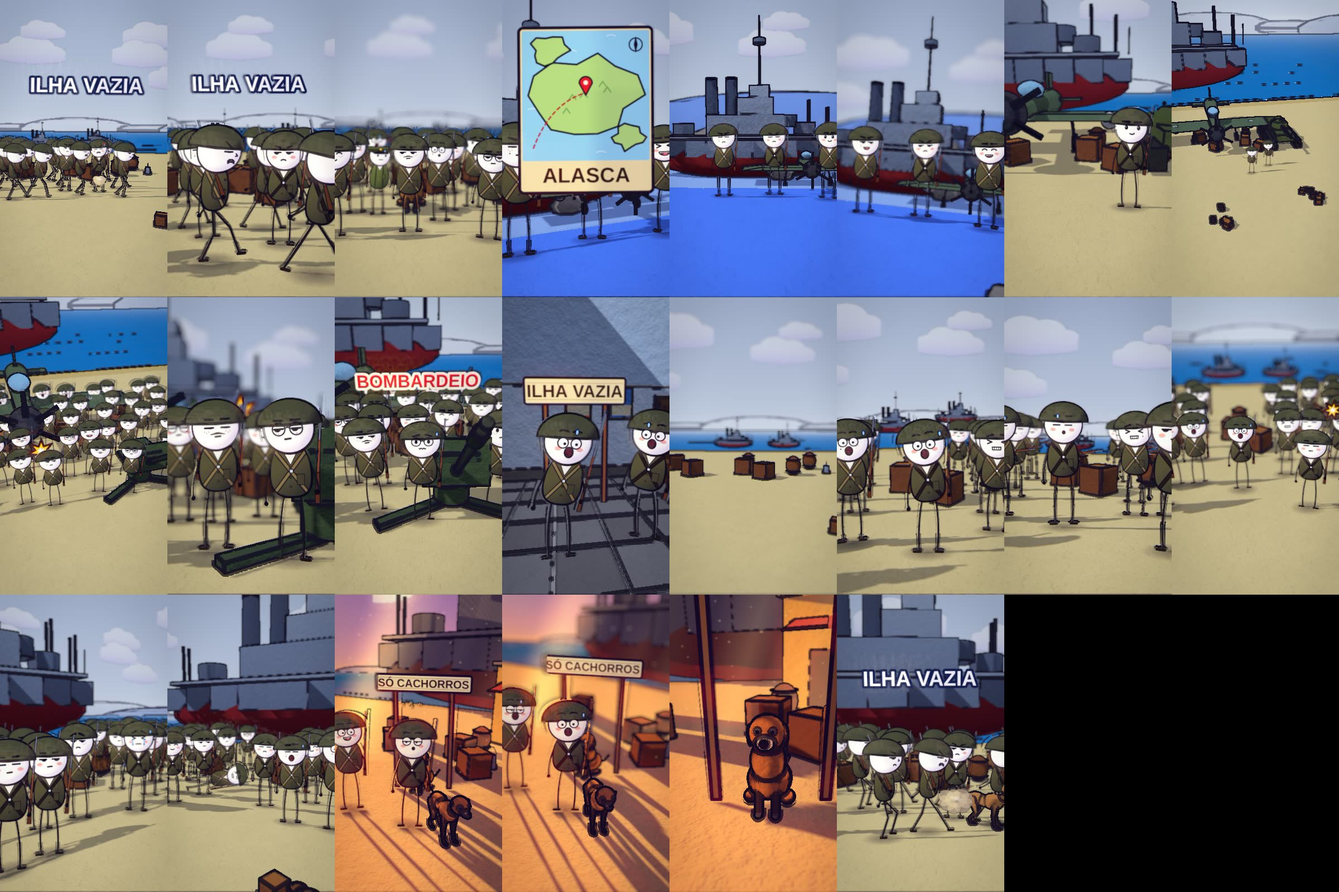
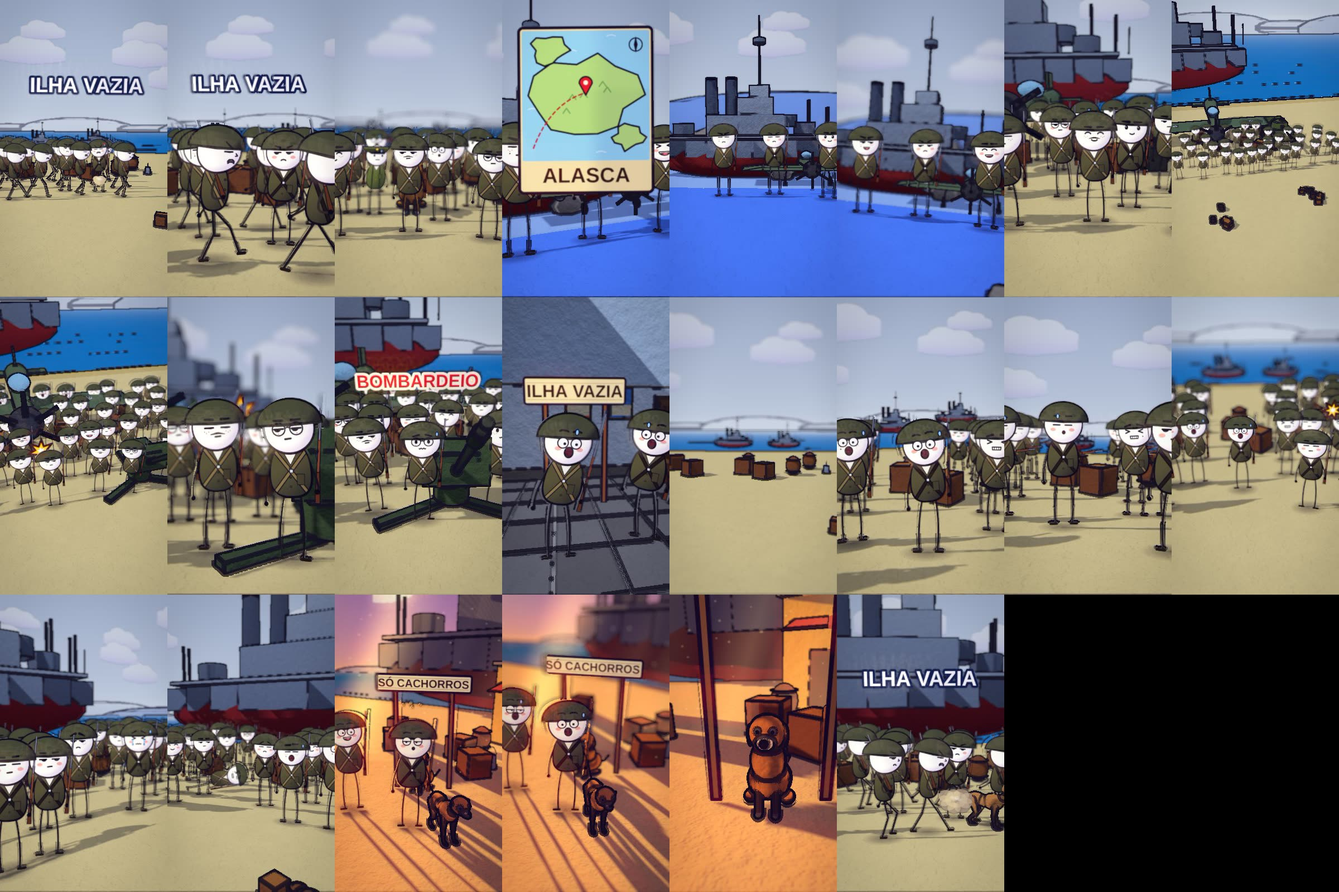
progresso da fila
Claude-Session: https://claude.ai/code/session_01HE8Dy3UcXXZZMLa7uzjNJD

Changed region(s): [[0.75, 0.0919, 1.0, 0.2758], [0.25, 0.1532, 0.3438, 0.2452]]

diff --git a/ferramenta-shorts/web/story.js b/ferramenta-shorts/web/story.js
@@ -34,9 +34,9 @@ const SPEC = {
   kicks: [{ f: WS(63), a: 0.032 }], flashes: [],
   shots: [
     { ...S('b0', A[0], A[1] - 1, X_harbor, "overcast", { h: 2.4, d0: 20, d1: 16, el: 5, fov: 46, cx: 0.0, cz: -1.5, hero: { hero: 'none', wide: true }, vary: false, nocut: true, actors: [_MA(pp(X_harbor, "USA", 0, -1.0, -0.4, "stern"), { gests: [[WS(5) - 8, WS(5) + 46, 'point']] }), pp(X_harbor, "CAN", 0, 1.0, 0.2, "stern"), { outfit: "USA", v: 0, at: [X_harbor + -17.05, 0.84], move: [[X_harbor + -5.05, 0.84], A[0], A[1] - 1, 'lin'], pose: 'march', speed: 0.034, expr: "stern", seed: 0, look: -0.25 }, { outfit: "CAN", v: 1, at: [X_harbor + -14.79, 1.32], move: [[X_harbor + -2.79, 1.32], A[0], A[1] - 1, 'lin'], pose: 'march', speed: 0.034, expr: "stern", seed: 1, look: 0.25 }, { outfit: "USA", v: 2, at: [X_harbor + -12.53, 0.96], move: [[X_harbor + -0.53, 0.96], A[0], A[1] - 1, 'lin'], pose: 'march', speed: 0.034, expr: "stern", seed: 2, look: 0.0 }, { outfit: "CAN", v: 3, at: [X_harbor + -11.26, 1.44], move: [[X_harbor + 0.74, 1.44], A[0], A[1] - 1, 'lin'], pose: 'march', speed: 0.034, expr: "stern", seed: 3, look: 0.15 }, { outfit: "USA", v: 0, at: [X_harbor + -9.0, 1.08], move: [[X_harbor + 3.0, 1.08], A[0], A[1] - 1, 'lin'], pose: 'march', speed: 0.034, expr: "stern", seed: 0, look: -0.25 }, { outfit: "CAN", v: 1, at: [X_harbor + -6.74, 1.56], move: [[X_harbor + 5.26, 1.56], A[0], A[1] - 1, 'lin'], pose: 'march', speed: 0.034, expr: "stern", seed: 1, look: 0.25 }, { outfit: "USA", v: 2, at: [X_harbor + -5.47, 1.2], move: [[X_harbor + 6.53, 1.2], A[0], A[1] - 1, 'lin'], pose: 'march', speed: 0.034, expr: "stern", seed: 2, look: 0.0 }, { outfit: "CAN", v: 3, at: [X_harbor + -3.21, 0.84], move: [[X_harbor + 8.79, 0.84], A[0], A[1] - 1, 'lin'], pose: 'march', speed: 0.034, expr: "stern", seed: 3, look: 0.15 }, { outfit: "USA", v: 0, at: [X_harbor + -0.95, 1.32], move: [[X_harbor + 11.05, 1.32], A[0], A[1] - 1, 'lin'], pose: 'march', speed: 0.034, expr: "stern", seed: 0, look: -0.25 }, { outfit: "CAN", v: 1, at: [X_harbor + -15.88, -1.14], move: [[X_harbor + -3.88, -1.14], A[0], A[1] - 1, 'lin'], pose: 'march', speed: 0.034, expr: "stern", seed: 1, look: 0.25 }, { outfit: "USA", v: 2, at: [X_harbor + -13.62, -0.66], move: [[X_harbor + -1.62, -0.66], A[0], A[1] - 1, 'lin'], pose: 'march', speed: 0.034, expr: "stern", seed: 2, look: 0.0 }, { outfit: "CAN", v: 3, at: [X_harbor + -12.35, -1.02], move: [[X_harbor + -0.35, -1.02], A[0], A[1] - 1, 'lin'], pose: 'march', speed: 0.034, expr: "stern", seed: 3, look: 0.15 }, { outfit: "USA", v: 0, at: [X_harbor + -10.09, -0.54], move: [[X_harbor + 1.91, -0.54], A[0], A[1] - 1, 'lin'], pose: 'march', speed: 0.034, expr: "stern", seed: 0, look: -0.25 }, { outfit: "CAN", v: 1, at: [X_harbor + -7.83, -0.9], move: [[X_harbor + 4.17, -0.9], A[0], A[1] - 1, 'lin'], pose: 'march', speed: 0.034, expr: "stern", seed: 1, look: 0.25 }, { outfit: "USA", v: 2, at: [X_harbor + -6.56, -1.26], move: [[X_harbor + 5.44, -1.26], A[0], A[1] - 1, 'lin'], pose: 'march', speed: 0.034, expr: "stern", seed: 2, look: 0.0 }, { outfit: "CAN", v: 3, at: [X_harbor + -4.3, -0.78], move: [[X_harbor + 7.7, -0.78], A[0], A[1] - 1, 'lin'], pose: 'march', speed: 0.034, expr: "stern", seed: 3, look: 0.15 }, { outfit: "USA", v: 0, at: [X_harbor + -2.04, -1.14], move: [[X_harbor + 9.96, -1.14], A[0], A[1] - 1, 'lin'], pose: 'march', speed: 0.034, expr: "stern", seed: 0, look: -0.25 }, { outfit: "CAN", v: 1, at: [X_harbor + -0.77, -0.66], move: [[X_harbor + 11.23, -0.66], A[0], A[1] - 1, 'lin'], pose: 'march', speed: 0.034, expr: "stern", seed: 1, look: 0.25 }, { outfit: "USA", v: 2, at: [X_harbor + -16.51, -3.12], move: [[X_harbor + -4.51, -3.12], A[0], A[1] - 1, 'lin'], pose: 'march', speed: 0.034, expr: "stern", seed: 2, look: 0.0 }, { outfit: "CAN", v: 3, at: [X_harbor + -14.25, -2.64], move: [[X_harbor + -2.25, -2.64], A[0], A[1] - 1, 'lin'], pose: 'march', speed: 0.034, expr: "stern", seed: 3, look: 0.15 }, { outfit: "USA", v: 0, at: [X_harbor + -12.98, -3.0], move: [[X_harbor + -0.98, -3.0], A[0], A[1] - 1, 'lin'], pose: 'march', speed: 0.034, expr: "stern", seed: 0, look: -0.25 }, { outfit: "CAN", v: 1, at: [X_harbor + -10.72, -3.36], move: [[X_harbor + 1.28, -3.36], A[0], A[1] - 1, 'lin'], pose: 'march', speed: 0.034, expr: "stern", seed: 1, look: 0.25 }, { outfit: "USA", v: 2, at: [X_harbor + -9.45, -2.88], move: [[X_harbor + 2.55, -2.88], A[0], A[1] - 1, 'lin'], pose: 'march', speed: 0.034, expr: "stern", seed: 2, look: 0.0 }, { outfit: "CAN", v: 3, at: [X_harbor + -7.19, -3.24], move: [[X_harbor + 4.81, -3.24], A[0], A[1] - 1, 'lin'], pose: 'march', speed: 0.034, expr: "stern", seed: 3, look: 0.15 }, { outfit: "USA", v: 0, at: [X_harbor + -4.93, -2.76], move: [[X_harbor + 7.07, -2.76], A[0], A[1] - 1, 'lin'], pose: 'march', speed: 0.034, expr: "stern", seed: 0, look: -0.25 }, { outfit: "CAN", v: 1, at: [X_harbor + -3.66, -3.12], move: [[X_harbor + 8.34, -3.12], A[0], A[1] - 1, 'lin'], pose: 'march', speed: 0.034, expr: "stern", seed: 1, look: 0.25 }, { outfit: "USA", v: 2, at: [X_harbor + -1.4, -2.64], move: [[X_harbor + 10.6, -2.64], A[0], A[1] - 1, 'lin'], pose: 'march', speed: 0.034, expr: "stern", seed: 2, look: 0.0 }, { outfit: "CAN", v: 3, at: [X_harbor + -15.34, -5.1], move: [[X_harbor + -3.34, -5.1], A[0], A[1] - 1, 'lin'], pose: 'march', speed: 0.034, expr: "stern", seed: 3, look: 0.15 }, { outfit: "USA", v: 0, at: [X_harbor + -14.07, -5.46], move: [[X_harbor + -2.07, -5.46], A[0], A[1] - 1, 'lin'], pose: 'march', speed: 0.034, expr: "stern", seed: 0, look: -0.25 }, { outfit: "CAN", v: 1, at: [X_harbor + -11.81, -4.98], move: [[X_harbor + 0.19, -4.98], A[0], A[1] - 1, 'lin'], pose: 'march', speed: 0.034, expr: "stern", seed: 1, look: 0.25 }, { outfit: "USA", v: 2, at: [X_harbor + -9.55, -5.34], move: [[X_harbor + 2.45, -5.34], A[0], A[1] - 1, 'lin'], pose: 'march', speed: 0.034, expr: "stern", seed: 2, look: 0.0 }, { outfit: "CAN", v: 3, at: [X_harbor + -8.28, -4.86], move: [[X_harbor + 3.72, -4.86], A[0], A[1] - 1, 'lin'], pose: 'march', speed: 0.034, expr: "stern", seed: 3, look: 0.15 }], props: [{ asset: "ship", at: [X_harbor + -5, -27.0], s: 1.3 }, { asset: "ship", at: [X_harbor + 4, -27.0], s: 1.3 }, { asset: 'ship', at: [X_harbor + -34, -9], move: [[X_harbor + -7, -9], A[0], WS(5) + 30, 'lin'], s: 1.3, drop: false }, { asset: 'ship', at: [X_harbor + -46, -12], move: [[X_harbor + -16, -12], A[0], WS(5) + 30, 'lin'], s: 1.3, drop: false }], fx: [txt(X_harbor, WS(2, -2), A[1] - 1, "ILHA VAZIA", '#ffffff', '#1c2a4a', 4.6, { s: 1.5, up: 0.42 }), { k: "dust", a: A[0] + 25, b: A[0] + 51, at: [X_harbor + 0.9, DK + 0.12, 1.0], s: 0.75 }] }), nocut: true },
-    { ...S('b1', A[1], A[2] - 1, X_harbor, "overcast", { h: 2.4, d0: 12.1, d1: 11.5, el: 6, cx: 0.0, cz: -0.6, hero: { hero: 'none', wide: true }, vary: false, nocut: true, trans: 'cut', glide: true, glideN: 26, actors: [pp(X_harbor, "OFF", 0, -1.0, -0.4, "pained"), pp(X_harbor, "USA", 0, 1.0, 0.2, "surprised"), pp(X_harbor, "USA", 0, -8.05, 0.84, "neutral", { look: -0.25, seed: 0 }), pp(X_harbor, "USA", 1, -5.79, 1.32, "neutral", { look: 0.25, seed: 1 }), pp(X_harbor, "USA", 2, -3.53, 0.96, "neutral", { look: 0.0, seed: 2 }), pp(X_harbor, "USA", 3, -2.26, 1.44, "neutral", { look: 0.15, seed: 3 }), pp(X_harbor, "USA", 4, 0.0, 1.08, "neutral", { look: -0.25, seed: 0 }), pp(X_harbor, "USA", 5, 2.26, 1.56, "neutral", { look: 0.25, seed: 1 }), pp(X_harbor, "USA", 6, 3.53, 1.2, "neutral", { look: 0.0, seed: 2 }), pp(X_harbor, "USA", 0, 5.79, 0.84, "neutral", { look: 0.15, seed: 3 }), pp(X_harbor, "USA", 1, 8.05, 1.32, "neutral", { look: -0.25, seed: 0 }), pp(X_harbor, "USA", 2, -6.88, -1.14, "neutral", { look: 0.25, seed: 1 }), pp(X_harbor, "USA", 3, -4.62, -0.66, "neutral", { look: 0.0, seed: 2 }), pp(X_harbor, "USA", 4, -3.35, -1.02, "neutral", { look: 0.15, seed: 3 }), pp(X_harbor, "USA", 5, -1.09, -0.54, "neutral", { look: -0.25, seed: 0 }), pp(X_harbor, "USA", 6, 1.17, -0.9, "neutral", { look: 0.25, seed: 1 }), pp(X_harbor, "USA", 0, 2.44, -1.26, "neutral", { look: 0.0, seed: 2 }), pp(X_harbor, "USA", 1, 4.7, -0.78, "neutral", { look: 0.15, seed: 3 }), pp(X_harbor, "USA", 2, 6.96, -1.14, "neutral", { look: -0.25, seed: 0 }), pp(X_harbor, "USA", 3, 8.23, -0.66, "neutral", { look: 0.25, seed: 1 }), pp(X_harbor, "USA", 4, -7.51, -3.12, "neutral", { look: 0.0, seed: 2 }), pp(X_harbor, "USA", 5, -5.25, -2.64, "neutral", { look: 0.15, seed: 3 }), pp(X_harbor, "USA", 6, -3.98, -3.0, "neutral", { look: -0.25, seed: 0 }), pp(X_harbor, "USA", 0, -1.72, -3.36, "neutral", { look: 0.25, seed: 1 }), pp(X_harbor, "USA", 1, -0.45, -2.88, "neutral", { look: 0.0, seed: 2 }), pp(X_harbor, "USA", 2, 1.81, -3.24, "neutral", { look: 0.15, seed: 3 }), pp(X_harbor, "USA", 3, 4.07, -2.76, "neutral", { look: -0.25, seed: 0 }), pp(X_harbor, "USA", 4, 5.34, -3.12, "neutral", { look: 0.25, seed: 1 }), pp(X_harbor, "USA", 5, 7.6, -2.64, "neutral", { look: 0.0, seed: 2 }), pp(X_harbor, "USA", 6, -6.34, -5.1, "neutral", { look: 0.15, seed: 3 }), pp(X_harbor, "USA", 0, -5.07, -5.46, "neutral", { look: -0.25, seed: 0 }), pp(X_harbor, "USA", 1, -2.81, -4.98, "neutral", { look: 0.25, seed: 1 }), pp(X_harbor, "USA", 2, -0.55, -5.34, "neutral", { look: 0.0, seed: 2 }), pp(X_harbor, "USA", 3, 0.72, -4.86, "neutral", { look: 0.15, seed: 3 })], props: [{ asset: "kit/dog_sit", at: [X_harbor + 0.0, -1.2], s: 2.0, fixo: true, drop: false }, { asset: "kit/dog_sit", at: [X_harbor + 3.6, -2.0], s: 1.2, fixo: true, drop: false }, { asset: "ship", at: [X_harbor + -5, -27.0], s: 1.3 }, { asset: "ship", at: [X_harbor + 4, -27.0], s: 1.3 }], fx: [txt(X_harbor, WS(22, -2), A[2] - 1, "OPERAÇÃO ILHA VAZIA", '#ffffff', '#1c2a4a', 4.6, { s: 1.5, up: 0.42 }), { k: "puff", a: WS(15), b: WS(15) + 28, at: [X_harbor + -3.08, DK + 0.12, -2.8], s: 1.3 }] }), nocut: true },
+    { ...S('b1', A[1], A[2] - 1, X_harbor, "overcast", { h: 2.4, d0: 12.1, d1: 11.5, el: 6, cx: 0.0, cz: -0.6, hero: { hero: 'none', wide: true }, vary: false, nocut: true, trans: 'cut', glide: true, glideN: 26, actors: [pp(X_harbor, "OFF", 0, -1.0, -0.4, "pained"), pp(X_harbor, "USA", 0, 1.0, 0.2, "surprised"), pp(X_harbor, "USA", 0, -8.05, 0.84, "neutral", { look: -0.25, seed: 0 }), pp(X_harbor, "USA", 1, -5.79, 1.32, "neutral", { look: 0.25, seed: 1 }), pp(X_harbor, "USA", 2, -3.53, 0.96, "neutral", { look: 0.0, seed: 2 }), pp(X_harbor, "USA", 3, -2.26, 1.44, "neutral", { look: 0.15, seed: 3 }), pp(X_harbor, "USA", 4, 0.0, 1.08, "neutral", { look: -0.25, seed: 0 }), pp(X_harbor, "USA", 5, 2.26, 1.56, "neutral", { look: 0.25, seed: 1 }), pp(X_harbor, "USA", 6, 3.53, 1.2, "neutral", { look: 0.0, seed: 2 }), pp(X_harbor, "USA", 0, 5.79, 0.84, "neutral", { look: 0.15, seed: 3 }), pp(X_harbor, "USA", 1, 8.05, 1.32, "neutral", { look: -0.25, seed: 0 }), pp(X_harbor, "USA", 2, -6.88, -1.14, "neutral", { look: 0.25, seed: 1 }), pp(X_harbor, "USA", 3, -4.62, -0.66, "neutral", { look: 0.0, seed: 2 }), pp(X_harbor, "USA", 4, -3.35, -1.02, "neutral", { look: 0.15, seed: 3 }), pp(X_harbor, "USA", 5, -1.09, -0.54, "neutral", { look: -0.25, seed: 0 }), pp(X_harbor, "USA", 6, 1.17, -0.9, "neutral", { look: 0.25, seed: 1 }), pp(X_harbor, "USA", 0, 2.44, -1.26, "neutral", { look: 0.0, seed: 2 }), pp(X_harbor, "USA", 1, 4.7, -0.78, "neutral", { look: 0.15, seed: 3 }), pp(X_harbor, "USA", 2, 6.96, -1.14, "neutral", { look: -0.25, seed: 0 }), pp(X_harbor, "USA", 3, 8.23, -0.66, "neutral", { look: 0.25, seed: 1 }), pp(X_harbor, "USA", 4, -7.51, -3.12, "neutral", { look: 0.0, seed: 2 }), pp(X_harbor, "USA", 5, -5.25, -2.64, "neutral", { look: 0.15, seed: 3 }), pp(X_harbor, "USA", 6, -3.98, -3.0, "neutral", { look: -0.25, seed: 0 }), pp(X_harbor, "USA", 0, -1.72, -3.36, "neutral", { look: 0.25, seed: 1 }), pp(X_harbor, "USA", 1, -0.45, -2.88, "neutral", { look: 0.0, seed: 2 }), pp(X_harbor, "USA", 2, 1.81, -3.24, "neutral", { look: 0.15, seed: 3 }), pp(X_harbor, "USA", 3, 4.07, -2.76, "neutral", { look: -0.25, seed: 0 }), pp(X_harbor, "USA", 4, 5.34, -3.12, "neutral", { look: 0.25, seed: 1 }), pp(X_harbor, "USA", 5, 7.6, -2.64, "neutral", { look: 0.0, seed: 2 }), pp(X_harbor, "USA", 6, -6.34, -5.1, "neutral", { look: 0.15, seed: 3 }), pp(X_harbor, "USA", 0, -5.07, -5.46, "neutral", { look: -0.25, seed: 0 }), pp(X_harbor, "USA", 1, -2.81, -4.98, "neutral", { look: 0.25, seed: 1 }), pp(X_harbor, "USA", 2, -0.55, -5.34, "neutral", { look: 0.0, seed: 2 }), pp(X_harbor, "USA", 3, 0.72, -4.86, "neutral", { look: 0.15, seed: 3 })], props: [{ asset: "kit/dog_sit", at: [X_harbor + 0.0, -1.0], s: 2.0, fixo: true, drop: false }, { asset: "kit/dog_sit", at: [X_harbor + 3.6, -2.0], s: 1.2, fixo: true, drop: false }, { asset: "ship", at: [X_harbor + -5, -27.0], s: 1.3 }, { asset: "ship", at: [X_harbor + 4, -27.0], s: 1.3 }], fx: [txt(X_harbor, WS(22, -2), A[2] - 1, "OPERAÇÃO ILHA VAZIA", '#ffffff', '#1c2a4a', 4.6, { s: 1.5, up: 0.42 }), { k: "puff", a: WS(15), b: WS(15) + 28, at: [X_harbor + -3.08, DK + 0.12, -2.8], s: 1.3 }] }), nocut: true },
     S('b2', A[2], Math.round(A[2] + (A[3] - 1 + 1 - (A[2])) * 0.36) - 1, X_arctic, "overcast", { h: 2.5, d0: 12.882, d1: 11.526, az0: -6, az1: 8, cx: 0.0, cz: 1.2, hero: { hero: 'any', frame: 'medium', minH: 0.07, main: 3 }, trans: 'cut', nocut: true, actors: [pp(X_arctic, "USA", 0, -2.1, 1.3, "stern", { pose: 'talk', inter: { k: 'lean', a: Math.round(A[2] + (A[3] - 1 - (A[2])) * 0.12), b: Math.round(A[2] + (A[3] - 1 - (A[2])) * 0.82), dir: 1, n: 2, ph: 0 } }), pp(X_arctic, "CAN", 0, 0.0, 1.0, "stern", { pose: 'talk', inter: { k: 'nod', a: Math.round(A[2] + (A[3] - 1 - (A[2])) * 0.2), b: Math.round(A[2] + (A[3] - 1 - (A[2])) * 0.9), dir: -1, n: 2, ph: 3.14 } }), pp(X_arctic, "USA", 1, 2.1, 1.6, "grin", { pose: 'talk' })], props: [{ asset: "vehicles/airplane", at: [X_arctic + 1.6, -1.6], s: 1.0 }, { asset: "kit/navio_vapor", at: [X_arctic + -1.8, -3.0], s: 2.25, drop: false }], fx: [{ k: 'map', a: WS(18, -2), b: Math.min(A[3] - 1, WS(18, -2) + 54), text: "ALASCA", geo: null }] }), { ...S('b2_d', Math.round(A[2] + (A[3] - 1 + 1 - (A[2])) * 0.36), Math.round(A[2] + (A[3] - 1 + 1 - (A[2])) * 0.6) - 1, X_arctic, "overcast", { h: 2.5, d0: 12.882, d1: 11.526, az0: -6, az1: 8, cx: 0.0, cz: 1.2, hero: { hero: 'none', detalhe: true }, trans: 'cut', nocut: true, actors: [pp(X_arctic, "USA", 0, -2.1, 1.3, "stern", { pose: 'stand' }), pp(X_arctic, "CAN", 0, 0.0, 1.0, "stern", { pose: 'stand' }), pp(X_arctic, "USA", 1, 2.1, 1.6, "grin", { pose: 'stand' })], props: [{ asset: "vehicles/airplane", at: [X_arctic + 1.6, -1.6], s: 1.0, drop: false }, { asset: "kit/navio_vapor", at: [X_arctic + -1.8, -3.0], s: 2.25, drop: false }], fx: [{ k: 'map', a: WS(18, -2), b: Math.min(A[3] - 1, WS(18, -2) + 54), text: "ALASCA", geo: null }] }), cam: [{ f: Math.round(A[2] + (A[3] - 1 + 1 - (A[2])) * 0.36), at: [X_arctic + -1.8, DK + 0.75, -3.0], d: 44.45, az: 14, el: 7, fov: 44 }, { f: Math.round(A[2] + (A[3] - 1 + 1 - (A[2])) * 0.6) - 1, at: [X_arctic + -1.8, DK + 0.75, -3.0], d: 39.75, az: 8, el: 6, fov: 44 }], nocut: true, vary: false, glide: true, glideN: 34 }, { ...S('b2_v', Math.round(A[2] + (A[3] - 1 + 1 - (A[2])) * 0.6), A[3] - 1, X_arctic, "overcast", { h: 2.5, d0: 12.882, d1: 11.526, az0: -6, az1: 8, cx: 0.0, cz: 1.2, hero: { hero: 'any', frame: 'medium', minH: 0.07, main: 3 }, trans: 'cut', nocut: true, actors: [pp(X_arctic, "USA", 0, -2.1, 1.3, "stern", { pose: 'talk', inter: { k: 'lean', a: Math.round(A[2] + (A[3] - 1 - (A[2])) * 0.12), b: Math.round(A[2] + (A[3] - 1 - (A[2])) * 0.82), dir: 1, n: 2, ph: 0 } }), pp(X_arctic, "CAN", 0, 0.0, 1.0, "stern", { pose: 'talk', inter: { k: 'nod', a: Math.round(A[2] + (A[3] - 1 - (A[2])) * 0.2), b: Math.round(A[2] + (A[3] - 1 - (A[2])) * 0.9), dir: -1, n: 2, ph: 3.14 } }), pp(X_arctic, "USA", 1, 2.1, 1.6, "grin", { pose: 'talk' })], props: [{ asset: "vehicles/airplane", at: [X_arctic + 1.6, -1.6], s: 1.0, drop: false }, { asset: "kit/navio_vapor", at: [X_arctic + -1.8, -3.0], s: 2.25, drop: false }], fx: [{ k: 'map', a: WS(18, -2), b: Math.min(A[3] - 1, WS(18, -2) + 54), text: "ALASCA", geo: null }] }), glide: true, glideN: 34 },
-    { ...{ ...S('b3', A[3], A[4] - 1, X_harbor, "overcast", { h: 2.4, d0: 11.0, d1: 27.0, el: 10, fov: 46, cx: 0.0, cz: -1.5, hero: { hero: 'none', wide: true }, vary: false, nocut: true, trans: 'cut', actors: [_MA(_MA(pp(X_harbor, "USA", 0, -1.0, -0.4, "stern"), { gests: [[WS(33) - 8, WS(33) + 46, 'point']] }), { at: [X_harbor + 5.0, 0.5], move: [[X_harbor + -1.0, 1.3], Math.max(A[3], WS(33) - 30), WS(33) + 20, 'lin'], walk: 'stroll' }), pp(X_harbor, "CAN", 1, 1.0, 0.2, "smile")], props: [{ asset: "kit/aviao_ww2", at: [X_harbor + -4, -9], s: 2.51, drop: false }, { asset: "kit/tanque_ww2", at: [X_harbor + 4, -6], s: 1.0, drop: false }, { asset: "kit/navio_encouracado", at: [X_harbor + -15, -36], s: 8.44, drop: false }, { asset: "boat", at: [X_harbor + 30, -22], s: 1.0 }], fx: [{ k: "dust", a: WS(33), b: WS(33) + 28, at: [X_harbor + -0.1, DK + 0.12, 1.7], s: 1.3 }] }), nocut: true }, cam: [{ f: A[3], at: [X_harbor + 0.0, DK + 2.0, 0.5], d: 9, az: 10, el: 5, fov: 46 }, { f: A[4] - 1, at: [X_harbor + 0.0, DK + 1.0, -2.0], d: 30, az: -14, el: 30, fov: 48 }], nocut: true },
+    { ...{ ...S('b3', A[3], A[4] - 1, X_harbor, "overcast", { h: 2.8, d0: 13.0, d1: 11.0, el: 10, fov: 46, cx: 4.0, cz: -4.2, hero: { hero: 'none', wide: true }, vary: false, nocut: true, trans: 'cut', actors: [_MA(_MA(pp(X_harbor, "USA", 0, -1.0, -0.4, "stern"), { gests: [[WS(33) - 8, WS(33) + 46, 'point']] }), { at: [X_harbor + 5.0, 0.5], move: [[X_harbor + -1.0, 1.3], Math.max(A[3], WS(33) - 30), WS(33) + 20, 'lin'], walk: 'stroll' }), pp(X_harbor, "CAN", 1, 1.0, 0.2, "smile"), pp(X_harbor, "USA", 0, -8.05, 0.84, "neutral", { look: -0.25, seed: 0 }), pp(X_harbor, "USA", 1, -5.79, 1.32, "neutral", { look: 0.25, seed: 1 }), pp(X_harbor, "USA", 2, -3.53, 0.96, "neutral", { look: 0.0, seed: 2 }), pp(X_harbor, "USA", 3, -2.26, 1.44, "neutral", { look: 0.15, seed: 3 }), pp(X_harbor, "USA", 4, 0.0, 1.08, "neutral", { look: -0.25, seed: 0 }), pp(X_harbor, "USA", 5, 2.26, 1.56, "neutral", { look: 0.25, seed: 1 }), pp(X_harbor, "USA", 6, 3.53, 1.2, "neutral", { look: 0.0, seed: 2 }), pp(X_harbor, "USA", 0, 5.79, 0.84, "neutral", { look: 0.15, seed: 3 }), pp(X_harbor, "USA", 1, 8.05, 1.32, "neutral", { look: -0.25, seed: 0 }), pp(X_harbor, "USA", 2, -6.88, -1.14, "neutral", { look: 0.25, seed: 1 }), pp(X_harbor, "USA", 3, -4.62, -0.66, "neutral", { look: 0.0, seed: 2 }), pp(X_harbor, "USA", 4, -3.35, -1.02, "neutral", { look: 0.15, seed: 3 }), pp(X_harbor, "USA", 5, -1.09, -0.54, "neutral", { look: -0.25, seed: 0 }), pp(X_harbor, "USA", 6, 1.17, -0.9, "neutral", { look: 0.25, seed: 1 }), pp(X_harbor, "USA", 0, 2.44, -1.26, "neutral", { look: 0.0, seed: 2 }), pp(X_harbor, "USA", 1, 4.7, -0.78, "neutral", { look: 0.15, seed: 3 }), pp(X_harbor, "USA", 2, 6.96, -1.14, "neutral", { look: -0.25, seed: 0 }), pp(X_harbor, "USA", 3, 8.23, -0.66, "neutral", { look: 0.25, seed: 1 }), pp(X_harbor, "USA", 4, -7.51, -3.12, "neutral", { look: 0.0, seed: 2 }), pp(X_harbor, "USA", 5, -5.25, -2.64, "neutral", { look: 0.15, seed: 3 }), pp(X_harbor, "USA", 6, -3.98, -3.0, "neutral", { look: -0.25, seed: 0 }), pp(X_harbor, "USA", 0, -1.72, -3.36, "neutral", { look: 0.25, seed: 1 }), pp(X_harbor, "USA", 1, -0.45, -2.88, "neutral", { look: 0.0, seed: 2 }), pp(X_harbor, "USA", 2, 1.81, -3.24, "neutral", { look: 0.15, seed: 3 }), pp(X_harbor, "USA", 3, 4.07, -2.76, "neutral", { look: -0.25, seed: 0 }), pp(X_harbor, "USA", 4, 5.34, -3.12, "neutral", { look: 0.25, seed: 1 }), pp(X_harbor, "USA", 5, 7.6, -2.64, "neutral", { look: 0.0, seed: 2 }), pp(X_harbor, "USA", 6, -6.34, -5.1, "neutral", { look: 0.15, seed: 3 }), pp(X_harbor, "USA", 0, -5.07, -5.46, "neutral", { look: -0.25, seed: 0 }), pp(X_harbor, "USA", 1, -2.81, -4.98, "neutral", { look: 0.25, seed: 1 }), pp(X_harbor, "USA", 2, -0.55, -5.34, "neutral", { look: 0.0, seed: 2 }), pp(X_harbor, "USA", 3, 0.72, -4.86, "neutral", { look: 0.15, seed: 3 })], props: [{ asset: "kit/aviao_ww2", at: [X_harbor + -4, -9], s: 2.51, drop: false }, { asset: "kit/tanque_ww2", at: [X_harbor + 4, -6], s: 1.0, drop: false }, { asset: "kit/navio_encouracado", at: [X_harbor + -15, -36], s: 8.44, drop: false }, { asset: "boat", at: [X_harbor + 30, -22], s: 1.0 }], fx: [{ k: "dust", a: WS(33), b: WS(33) + 28, at: [X_harbor + 5.6, DK + 0.12, -0.58], s: 1.3 }] }), nocut: true }, cam: [{ f: A[3], at: [X_harbor + 0.0, DK + 2.0, 0.5], d: 9, az: 10, el: 5, fov: 46 }, { f: A[4] - 1, at: [X_harbor + 0.0, DK + 1.0, -2.0], d: 30, az: -14, el: 30, fov: 48 }], nocut: true },
     { ...{ ...S('b4', A[4], Math.round(A[4] + (A[5] - 1 + 1 - (A[4])) * 0.3) - 1, X_harbor, "overcast", { h: 2.6, d0: 15.0, d1: 14.0, el: 11, cx: 0.0, cz: -1.5, hero: { hero: 'none', wide: true }, vary: false, nocut: true, trans: 'cut', glide: true, glideN: 26, actors: [pp(X_harbor, "USA", 2, 0.0, -0.4, "grin"), pp(X_harbor, "USA", 0, -8.05, 0.84, "neutral", { look: -0.25, seed: 0 }), pp(X_harbor, "USA", 1, -5.79, 1.32, "neutral", { look: 0.25, seed: 1 }), pp(X_harbor, "USA", 2, -3.53, 0.96, "neutral", { look: 0.0, seed: 2 }), pp(X_harbor, "USA", 3, -2.26, 1.44, "neutral", { look: 0.15, seed: 3 }), pp(X_harbor, "USA", 4, 0.0, 1.08, "neutral", { look: -0.25, seed: 0 }), pp(X_harbor, "USA", 5, 2.26, 1.56, "neutral", { look: 0.25, seed: 1 }), pp(X_harbor, "USA", 6, 3.53, 1.2, "neutral", { look: 0.0, seed: 2 }), pp(X_harbor, "USA", 0, 5.79, 0.84, "neutral", { look: 0.15, seed: 3 }), pp(X_harbor, "USA", 1, 8.05, 1.32, "neutral", { look: -0.25, seed: 0 }), pp(X_harbor, "USA", 2, -6.88, -1.14, "neutral", { look: 0.25, seed: 1 }), pp(X_harbor, "USA", 3, -4.62, -0.66, "neutral", { look: 0.0, seed: 2 }), pp(X_harbor, "USA", 4, -3.35, -1.02, "neutral", { look: 0.15, seed: 3 }), pp(X_harbor, "USA", 5, -1.09, -0.54, "neutral", { look: -0.25, seed: 0 }), pp(X_harbor, "USA", 6, 1.17, -0.9, "neutral", { look: 0.25, seed: 1 }), pp(X_harbor, "USA", 0, 2.44, -1.26, "neutral", { look: 0.0, seed: 2 }), pp(X_harbor, "USA", 1, 4.7, -0.78, "neutral", { look: 0.15, seed: 3 }), pp(X_harbor, "USA", 2, 6.96, -1.14, "neutral", { look: -0.25, seed: 0 }), pp(X_harbor, "USA", 3, 8.23, -0.66, "neutral", { look: 0.25, seed: 1 }), pp(X_harbor, "USA", 4, -7.51, -3.12, "neutral", { look: 0.0, seed: 2 }), pp(X_harbor, "USA", 5, -5.25, -2.64, "neutral", { look: 0.15, seed: 3 }), pp(X_harbor, "USA", 6, -3.98, -3.0, "neutral", { look: -0.25, seed: 0 }), pp(X_harbor, "USA", 0, -1.72, -3.36, "neutral", { look: 0.25, seed: 1 }), pp(X_harbor, "USA", 1, -0.45, -2.88, "neutral", { look: 0.0, seed: 2 }), pp(X_harbor, "USA", 2, 1.81, -3.24, "neutral", { look: 0.15, seed: 3 }), pp(X_harbor, "USA", 3, 4.07, -2.76, "neutral", { look: -0.25, seed: 0 }), pp(X_harbor, "USA", 4, 5.34, -3.12, "neutral", { look: 0.25, seed: 1 }), pp(X_harbor, "USA", 5, 7.6, -2.64, "neutral", { look: 0.0, seed: 2 }), pp(X_harbor, "USA", 6, -6.34, -5.1, "neutral", { look: 0.15, seed: 3 }), pp(X_harbor, "USA", 0, -5.07, -5.46, "neutral", { look: -0.25, seed: 0 }), pp(X_harbor, "USA", 1, -2.81, -4.98, "neutral", { look: 0.25, seed: 1 }), pp(X_harbor, "USA", 2, -0.55, -5.34, "neutral", { look: 0.0, seed: 2 }), pp(X_harbor, "USA", 3, 0.72, -4.86, "neutral", { look: 0.15, seed: 3 }), pp(X_harbor, "USA", 4, 2.98, -5.22, "neutral", { look: -0.25, seed: 0 }), pp(X_harbor, "USA", 5, 4.25, -4.74, "neutral", { look: 0.25, seed: 1 }), pp(X_harbor, "USA", 6, 6.51, -5.1, "neutral", { look: 0.0, seed: 2 }), pp(X_harbor, "USA", 0, 8.77, -5.46, "neutral", { look: 0.15, seed: 3 }), pp(X_harbor, "USA", 1, -7.96, -7.08, "neutral", { look: -0.25, seed: 0 }), pp(X_harbor, "USA", 2, -5.7, -7.44, "neutral", { look: 0.25, seed: 1 }), pp(X_harbor, "USA", 3, -3.44, -6.96, "neutral", { look: 0.0, seed: 2 }), pp(X_harbor, "USA", 4, -2.17, -7.32, "neutral", { look: 0.15, seed: 3 }), pp(X_harbor, "USA", 5, 0.09, -6.84, "neutral", { look: -0.25, seed: 0 }), pp(X_harbor, "USA", 6, 2.35, -7.2, "neutral", { look: 0.25, seed: 1 }), pp(X_harbor, "USA", 0, 3.62, -7.56, "neutral", { look: 0.0, seed: 2 }), pp(X_harbor, "USA", 1, 5.88, -7.08, "neutral", { look: 0.15, seed: 3 }), pp(X_harbor, "USA", 2, 7.15, -7.44, "neutral", { look: -0.25, seed: 0 }), pp(X_harbor, "USA", 3, -6.79, -9.06, "neutral", { look: 0.25, seed: 1 }), pp(X_harbor, "USA", 4, -4.53, -9.42, "neutral", { look: 0.0, seed: 2 }), pp(X_harbor, "USA", 5, -3.26, -8.94, "neutral", { look: 0.15, seed: 3 })], props: [{ asset: "kit/aviao_ww2", at: [X_harbor + -3.0, -8.0], s: 2.51, drop: false }, { asset: "kit/canhao_moderno", at: [X_harbor + 2.4, 0.6], s: 1.77, drop: false }, { asset: "kit/navio_encouracado", at: [X_harbor + -15, -36], s: 8.44, drop: false }], fx: [txt(X_harbor, WS(42, -2), A[5] - 1, "BOMBARDEIO", '#d8282f', '#fff6e0', 4.8, { s: 1.5, up: 0.42 }), { k: 'burst', a: A[4] + 38, b: A[4] + 50, at: [X_harbor + 2.4, DK + -2.65, 1.4], s: 2.5 }, { k: 'burst', a: A[4] + 60, b: A[4] + 72, at: [X_harbor + 2.4, DK + -2.65, 1.4], s: 2.5 }, { k: 'burst', a: A[4] + 82, b: A[4] + 94, at: [X_harbor + 2.4, DK + -2.65, 1.4], s: 2.5 }, { k: 'flash', a: A[4] + 8, b: A[4] + 16, at: [X_harbor + -2.78, DK - 1.05 + 0, 1.36], s: 2.5 }, { k: 'flash', a: A[4] + 16, b: A[4] + 24, at: [X_harbor + 6.54, DK - 1.05 + 0, 1.24], s: 2.5 }, { k: 'flash', a: A[4] + 20, b: A[4] + 28, at: [X_harbor + -0.34, DK - 1.05 + 0, -0.14], s: 2.5 }, { k: 'flash', a: A[4] + 24, b: A[4] + 32, at: [X_harbor + 8.98, DK - 1.05 + 0, -0.26], s: 2.5 }, { k: 'flash', a: A[4] + 28, b: A[4] + 36, at: [X_harbor + 0.3, DK - 1.05 + 0, -2.48], s: 2.5 }, { k: 'flash', a: A[4] + 36, b: A[4] + 44, at: [X_harbor + -5.59, DK - 1.05 + 0, -4.7], s: 2.5 }, { k: 'flash', a: A[4] + 40, b: A[4] + 48, at: [X_harbor + 3.73, DK - 1.05 + 0, -4.82], s: 2.5 }, { k: 'flash', a: A[4] + 44, b: A[4] + 52, at: [X_harbor + -4.95, DK - 1.05 + 0, -7.04], s: 2.5 }, { k: 'flash', a: A[4] + 48, b: A[4] + 56, at: [X_harbor + 4.37, DK - 1.05 + 0, -7.16], s: 2.5 }] }), nocut: true }, cam: [{ f: A[4], at: [X_harbor + 0.0, DK + 2.2, 0.5], d: 8.5, az: -26, el: 2, fov: 44 }, { f: Math.round(A[4] + (A[5] - 1 + 1 - (A[4])) * 0.3) - 1, at: [X_harbor + 1.0, DK + 2.2, 0.5], d: 7.4, az: -14, el: 3, fov: 44 }], nocut: true, vary: false }, { ...{ ...S('b4_1', Math.round(A[4] + (A[5] - 1 + 1 - (A[4])) * 0.3), Math.round(A[4] + (A[5] - 1 + 1 - (A[4])) * 0.55) - 1, X_harbor, "overcast", { h: 2.6, d0: 15.0, d1: 14.0, el: 11, cx: 0.0, cz: -1.5, hero: { hero: 'none', wide: true }, vary: false, nocut: true, trans: 'cut', glide: true, glideN: 26, actors: [pp(X_harbor, "USA", 2, 0.0, -0.4, "grin"), pp(X_harbor, "USA", 0, -8.05, 0.84, "neutral", { look: -0.25, seed: 0 }), pp(X_harbor, "USA", 1, -5.79, 1.32, "neutral", { look: 0.25, seed: 1 }), pp(X_harbor, "USA", 2, -3.53, 0.96, "neutral", { look: 0.0, seed: 2 }), pp(X_harbor, "USA", 3, -2.26, 1.44, "neutral", { look: 0.15, seed: 3 }), pp(X_harbor, "USA", 4, 0.0, 1.08, "neutral", { look: -0.25, seed: 0 }), pp(X_harbor, "USA", 5, 2.26, 1.56, "neutral", { look: 0.25, seed: 1 }), pp(X_harbor, "USA", 6, 3.53, 1.2, "neutral", { look: 0.0, seed: 2 }), pp(X_harbor, "USA", 0, 5.79, 0.84, "neutral", { look: 0.15, seed: 3 }), pp(X_harbor, "USA", 1, 8.05, 1.32, "neutral", { look: -0.25, seed: 0 }), pp(X_harbor, "USA", 2, -6.88, -1.14, "neutral", { look: 0.25, seed: 1 }), pp(X_harbor, "USA", 3, -4.62, -0.66, "neutral", { look: 0.0, seed: 2 }), pp(X_harbor, "USA", 4, -3.35, -1.02, "neutral", { look: 0.15, seed: 3 }), pp(X_harbor, "USA", 5, -1.09, -0.54, "neutral", { look: -0.25, seed: 0 }), pp(X_harbor, "USA", 6, 1.17, -0.9, "neutral", { look: 0.25, seed: 1 }), pp(X_harbor, "USA", 0, 2.44, -1.26, "neutral", { look: 0.0, seed: 2 }), pp(X_harbor, "USA", 1, 4.7, -0.78, "neutral", { look: 0.15, seed: 3 }), pp(X_harbor, "USA", 2, 6.96, -1.14, "neutral", { look: -0.25, seed: 0 }), pp(X_harbor, "USA", 3, 8.23, -0.66, "neutral", { look: 0.25, seed: 1 }), pp(X_harbor, "USA", 4, -7.51, -3.12, "neutral", { look: 0.0, seed: 2 }), pp(X_harbor, "USA", 5, -5.25, -2.64, "neutral", { look: 0.15, seed: 3 }), pp(X_harbor, "USA", 6, -3.98, -3.0, "neutral", { look: -0.25, seed: 0 }), pp(X_harbor, "USA", 0, -1.72, -3.36, "neutral", { look: 0.25, seed: 1 }), pp(X_harbor, "USA", 1, -0.45, -2.88, "neutral", { look: 0.0, seed: 2 }), pp(X_harbor, "USA", 2, 1.81, -3.24, "neutral", { look: 0.15, seed: 3 }), pp(X_harbor, "USA", 3, 4.07, -2.76, "neutral", { look: -0.25, seed: 0 }), pp(X_harbor, "USA", 4, 5.34, -3.12, "neutral", { look: 0.25, seed: 1 }), pp(X_harbor, "USA", 5, 7.6, -2.64, "neutral", { look: 0.0, seed: 2 }), pp(X_harbor, "USA", 6, -6.34, -5.1, "neutral", { look: 0.15, seed: 3 }), pp(X_harbor, "USA", 0, -5.07, -5.46, "neutral", { look: -0.25, seed: 0 }), pp(X_harbor, "USA", 1, -2.81, -4.98, "neutral", { look: 0.25, seed: 1 }), pp(X_harbor, "USA", 2, -0.55, -5.34, "neutral", { look: 0.0, seed: 2 }), pp(X_harbor, "USA", 3, 0.72, -4.86, "neutral", { look: 0.15, seed: 3 }), pp(X_harbor, "USA", 4, 2.98, -5.22, "neutral", { look: -0.25, seed: 0 }), pp(X_harbor, "USA", 5, 4.25, -4.74, "neutral", { look: 0.25, seed: 1 }), pp(X_harbor, "USA", 6, 6.51, -5.1, "neutral", { look: 0.0, seed: 2 }), pp(X_harbor, "USA", 0, 8.77, -5.46, "neutral", { look: 0.15, seed: 3 }), pp(X_harbor, "USA", 1, -7.96, -7.08, "neutral", { look: -0.25, seed: 0 }), pp(X_harbor, "USA", 2, -5.7, -7.44, "neutral", { look: 0.25, seed: 1 }), pp(X_harbor, "USA", 3, -3.44, -6.96, "neutral", { look: 0.0, seed: 2 }), pp(X_harbor, "USA", 4, -2.17, -7.32, "neutral", { look: 0.15, seed: 3 }), pp(X_harbor, "USA", 5, 0.09, -6.84, "neutral", { look: -0.25, seed: 0 }), pp(X_harbor, "USA", 6, 2.35, -7.2, "neutral", { look: 0.25, seed: 1 }), pp(X_harbor, "USA", 0, 3.62, -7.56, "neutral", { look: 0.0, seed: 2 }), pp(X_harbor, "USA", 1, 5.88, -7.08, "neutral", { look: 0.15, seed: 3 }), pp(X_harbor, "USA", 2, 7.15, -7.44, "neutral", { look: -0.25, seed: 0 }), pp(X_harbor, "USA", 3, -6.79, -9.06, "neutral", { look: 0.25, seed: 1 }), pp(X_harbor, "USA", 4, -4.53, -9.42, "neutral", { look: 0.0, seed: 2 }), pp(X_harbor, "USA", 5, -3.26, -8.94, "neutral", { look: 0.15, seed: 3 })], props: [{ asset: "kit/aviao_ww2", at: [X_harbor + -3.0, -8.0], s: 2.51, drop: false }, { asset: "kit/canhao_moderno", at: [X_harbor + 2.4, 0.6], s: 1.77, drop: false }, { asset: "kit/navio_encouracado", at: [X_harbor + -15, -36], s: 8.44, drop: false }], fx: [txt(X_harbor, WS(42, -2), A[5] - 1, "BOMBARDEIO", '#d8282f', '#fff6e0', 4.8, { s: 1.5, up: 0.42 }), { k: 'burst', a: A[4] + 38, b: A[4] + 50, at: [X_harbor + 2.4, DK + -2.65, 1.4], s: 2.5 }, { k: 'burst', a: A[4] + 60, b: A[4] + 72, at: [X_harbor + 2.4, DK + -2.65, 1.4], s: 2.5 }, { k: 'burst', a: A[4] + 82, b: A[4] + 94, at: [X_harbor + 2.4, DK + -2.65, 1.4], s: 2.5 }, { k: 'flash', a: A[4] + 8, b: A[4] + 16, at: [X_harbor + -2.78, DK - 1.05 + 0, 1.36], s: 2.5 }, { k: 'flash', a: A[4] + 16, b: A[4] + 24, at: [X_harbor + 6.54, DK - 1.05 + 0, 1.24], s: 2.5 }, { k: 'flash', a: A[4] + 20, b: A[4] + 28, at: [X_harbor + -0.34, DK - 1.05 + 0, -0.14], s: 2.5 }, { k: 'flash', a: A[4] + 24, b: A[4] + 32, at: [X_harbor + 8.98, DK - 1.05 + 0, -0.26], s: 2.5 }, { k: 'flash', a: A[4] + 28, b: A[4] + 36, at: [X_harbor + 0.3, DK - 1.05 + 0, -2.48], s: 2.5 }, { k: 'flash', a: A[4] + 36, b: A[4] + 44, at: [X_harbor + -5.59, DK - 1.05 + 0, -4.7], s: 2.5 }, { k: 'flash', a: A[4] + 40, b: A[4] + 48, at: [X_harbor + 3.73, DK - 1.05 + 0, -4.82], s: 2.5 }, { k: 'flash', a: A[4] + 44, b: A[4] + 52, at: [X_harbor + -4.95, DK - 1.05 + 0, -7.04], s: 2.5 }, { k: 'flash', a: A[4] + 48, b: A[4] + 56, at: [X_harbor + 4.37, DK - 1.05 + 0, -7.16], s: 2.5 }] }), nocut: true }, cam: [{ f: Math.round(A[4] + (A[5] - 1 + 1 - (A[4])) * 0.3), at: [X_harbor + -6.0, DK + 1.8, 0.0], d: 11, az: 30, el: 5, fov: 46 }, { f: Math.round(A[4] + (A[5] - 1 + 1 - (A[4])) * 0.55) - 1, at: [X_harbor + 4.0, DK + 1.8, 0.0], d: 11, az: 18, el: 5, fov: 46, ease: "lin" }], nocut: true, vary: false, glide: true }, { ...{ ...S('b4_2', Math.round(A[4] + (A[5] - 1 + 1 - (A[4])) * 0.55), A[5] - 1, X_harbor, "overcast", { h: 2.6, d0: 15.0, d1: 14.0, el: 11, cx: 0.0, cz: -1.5, hero: { hero: 'none', wide: true }, vary: false, nocut: true, trans: 'cut', glide: true, glideN: 26, actors: [pp(X_harbor, "USA", 2, 0.0, -0.4, "grin"), pp(X_harbor, "USA", 0, -8.05, 0.84, "neutral", { look: -0.25, seed: 0 }), pp(X_harbor, "USA", 1, -5.79, 1.32, "neutral", { look: 0.25, seed: 1 }), pp(X_harbor, "USA", 2, -3.53, 0.96, "neutral", { look: 0.0, seed: 2 }), pp(X_harbor, "USA", 3, -2.26, 1.44, "neutral", { look: 0.15, seed: 3 }), pp(X_harbor, "USA", 4, 0.0, 1.08, "neutral", { look: -0.25, seed: 0 }), pp(X_harbor, "USA", 5, 2.26, 1.56, "neutral", { look: 0.25, seed: 1 }), pp(X_harbor, "USA", 6, 3.53, 1.2, "neutral", { look: 0.0, seed: 2 }), pp(X_harbor, "USA", 0, 5.79, 0.84, "neutral", { look: 0.15, seed: 3 }), pp(X_harbor, "USA", 1, 8.05, 1.32, "neutral", { look: -0.25, seed: 0 }), pp(X_harbor, "USA", 2, -6.88, -1.14, "neutral", { look: 0.25, seed: 1 }), pp(X_harbor, "USA", 3, -4.62, -0.66, "neutral", { look: 0.0, seed: 2 }), pp(X_harbor, "USA", 4, -3.35, -1.02, "neutral", { look: 0.15, seed: 3 }), pp(X_harbor, "USA", 5, -1.09, -0.54, "neutral", { look: -0.25, seed: 0 }), pp(X_harbor, "USA", 6, 1.17, -0.9, "neutral", { look: 0.25, seed: 1 }), pp(X_harbor, "USA", 0, 2.44, -1.26, "neutral", { look: 0.0, seed: 2 }), pp(X_harbor, "USA", 1, 4.7, -0.78, "neutral", { look: 0.15, seed: 3 }), pp(X_harbor, "USA", 2, 6.96, -1.14, "neutral", { look: -0.25, seed: 0 }), pp(X_harbor, "USA", 3, 8.23, -0.66, "neutral", { look: 0.25, seed: 1 }), pp(X_harbor, "USA", 4, -7.51, -3.12, "neutral", { look: 0.0, seed: 2 }), pp(X_harbor, "USA", 5, -5.25, -2.64, "neutral", { look: 0.15, seed: 3 }), pp(X_harbor, "USA", 6, -3.98, -3.0, "neutral", { look: -0.25, seed: 0 }), pp(X_harbor, "USA", 0, -1.72, -3.36, "neutral", { look: 0.25, seed: 1 }), pp(X_harbor, "USA", 1, -0.45, -2.88, "neutral", { look: 0.0, seed: 2 }), pp(X_harbor, "USA", 2, 1.81, -3.24, "neutral", { look: 0.15, seed: 3 }), pp(X_harbor, "USA", 3, 4.07, -2.76, "neutral", { look: -0.25, seed: 0 }), pp(X_harbor, "USA", 4, 5.34, -3.12, "neutral", { look: 0.25, seed: 1 }), pp(X_harbor, "USA", 5, 7.6, -2.64, "neutral", { look: 0.0, seed: 2 }), pp(X_harbor, "USA", 6, -6.34, -5.1, "neutral", { look: 0.15, seed: 3 }), pp(X_harbor, "USA", 0, -5.07, -5.46, "neutral", { look: -0.25, seed: 0 }), pp(X_harbor, "USA", 1, -2.81, -4.98, "neutral", { look: 0.25, seed: 1 }), pp(X_harbor, "USA", 2, -0.55, -5.34, "neutral", { look: 0.0, seed: 2 }), pp(X_harbor, "USA", 3, 0.72, -4.86, "neutral", { look: 0.15, seed: 3 }), pp(X_harbor, "USA", 4, 2.98, -5.22, "neutral", { look: -0.25, seed: 0 }), pp(X_harbor, "USA", 5, 4.25, -4.74, "neutral", { look: 0.25, seed: 1 }), pp(X_harbor, "USA", 6, 6.51, -5.1, "neutral", { look: 0.0, seed: 2 }), pp(X_harbor, "USA", 0, 8.77, -5.46, "neutral", { look: 0.15, seed: 3 }), pp(X_harbor, "USA", 1, -7.96, -7.08, "neutral", { look: -0.25, seed: 0 }), pp(X_harbor, "USA", 2, -5.7, -7.44, "neutral", { look: 0.25, seed: 1 }), pp(X_harbor, "USA", 3, -3.44, -6.96, "neutral", { look: 0.0, seed: 2 }), pp(X_harbor, "USA", 4, -2.17, -7.32, "neutral", { look: 0.15, seed: 3 }), pp(X_harbor, "USA", 5, 0.09, -6.84, "neutral", { look: -0.25, seed: 0 }), pp(X_harbor, "USA", 6, 2.35, -7.2, "neutral", { look: 0.25, seed: 1 }), pp(X_harbor, "USA", 0, 3.62, -7.56, "neutral", { look: 0.0, seed: 2 }), pp(X_harbor, "USA", 1, 5.88, -7.08, "neutral", { look: 0.15, seed: 3 }), pp(X_harbor, "USA", 2, 7.15, -7.44, "neutral", { look: -0.25, seed: 0 }), pp(X_harbor, "USA", 3, -6.79, -9.06, "neutral", { look: 0.25, seed: 1 }), pp(X_harbor, "USA", 4, -4.53, -9.42, "neutral", { look: 0.0, seed: 2 }), pp(X_harbor, "USA", 5, -3.26, -8.94, "neutral", { look: 0.15, seed: 3 })], props: [{ asset: "kit/aviao_ww2", at: [X_harbor + -3.0, -8.0], s: 2.51, drop: false }, { asset: "kit/canhao_moderno", at: [X_harbor + 2.4, 0.6], s: 1.77, drop: false }, { asset: "kit/navio_encouracado", at: [X_harbor + -15, -36], s: 8.44, drop: false }], fx: [txt(X_harbor, WS(42, -2), A[5] - 1, "BOMBARDEIO", '#d8282f', '#fff6e0', 4.8, { s: 1.5, up: 0.42 }), { k: 'burst', a: A[4] + 38, b: A[4] + 50, at: [X_harbor + 2.4, DK + -2.65, 1.4], s: 2.5 }, { k: 'burst', a: A[4] + 60, b: A[4] + 72, at: [X_harbor + 2.4, DK + -2.65, 1.4], s: 2.5 }, { k: 'burst', a: A[4] + 82, b: A[4] + 94, at: [X_harbor + 2.4, DK + -2.65, 1.4], s: 2.5 }, { k: 'flash', a: A[4] + 8, b: A[4] + 16, at: [X_harbor + -2.78, DK - 1.05 + 0, 1.36], s: 2.5 }, { k: 'flash', a: A[4] + 16, b: A[4] + 24, at: [X_harbor + 6.54, DK - 1.05 + 0, 1.24], s: 2.5 }, { k: 'flash', a: A[4] + 20, b: A[4] + 28, at: [X_harbor + -0.34, DK - 1.05 + 0, -0.14], s: 2.5 }, { k: 'flash', a: A[4] + 24, b: A[4] + 32, at: [X_harbor + 8.98, DK - 1.05 + 0, -0.26], s: 2.5 }, { k: 'flash', a: A[4] + 28, b: A[4] + 36, at: [X_harbor + 0.3, DK - 1.05 + 0, -2.48], s: 2.5 }, { k: 'flash', a: A[4] + 36, b: A[4] + 44, at: [X_harbor + -5.59, DK - 1.05 + 0, -4.7], s: 2.5 }, { k: 'flash', a: A[4] + 40, b: A[4] + 48, at: [X_harbor + 3.73, DK - 1.05 + 0, -4.82], s: 2.5 }, { k: 'flash', a: A[4] + 44, b: A[4] + 52, at: [X_harbor + -4.95, DK - 1.05 + 0, -7.04], s: 2.5 }, { k: 'flash', a: A[4] + 48, b: A[4] + 56, at: [X_harbor + 4.37, DK - 1.05 + 0, -7.16], s: 2.5 }] }), nocut: true }, cam: [{ f: Math.round(A[4] + (A[5] - 1 + 1 - (A[4])) * 0.55), at: [X_harbor + 0.0, DK + 1.4, 0.0], d: 15, az: 8, el: 12, fov: 48 }, { f: A[5] - 1, at: [X_harbor + 0.0, DK + 1.0, -3.0], d: 34, az: -16, el: 30, fov: 48 }], nocut: true, vary: false, glide: true },
     S('b5', A[5], A[6] - 1, X_hall, "overcast", { h: 2.3, d0: 7.3, d1: 6.86, fov: 57.0, az0: -10, az1: -5, hero: { hero: 'any', frame: 'medium', minH: 0.07, main: 2 }, trans: 'cut', nocut: true, actors: [pp(X_hall, "USA", 1, -1.0, 1.3, "shock", { pose: 'react', inter: { k: 'lean', a: Math.round(A[5] + (A[6] - 1 - (A[5])) * 0.12), b: Math.round(A[5] + (A[6] - 1 - (A[5])) * 0.82), dir: 1, n: 2, ph: 0 } }), pp(X_hall, "CAN", 0, 1.0, 1.0, "shock", { pose: 'react', inter: { k: 'recoil', a: Math.round(A[5] + (A[6] - 1 - (A[5])) * 0.2), b: Math.round(A[5] + (A[6] - 1 - (A[5])) * 0.9), dir: -1, n: 2, ph: 3.14 } })], props: [{ asset: "kit/room_azul_stone", at: [X_hall, 0], s: 1, drop: false }, { asset: "mk/Bookcase_2", at: [X_hall + 7.4, -3.4], s: 2.4, drop: false }, { asset: "mk/Table_Large", at: [X_hall + -6.6, -1.6], s: 2.2, drop: false }, { asset: "mk/Chair_1", at: [X_hall + -4.4, -1.2], s: 2.2, drop: false }, { asset: "mk/Chest_Wood", at: [X_hall + 6.9, 0.6], s: 2.2, drop: false }], fx: [{ k: 'text', a: A[5], b: A[6] - 1, at: [X_hall + 0.0, DK, -1.3], text: "ILHA VAZIA", s: 2.625, col: '#3a2416', size: 120, board: true }] }),
     { ...S('b6', A[6], A[7] - 1, X_harbor, "overcast", { h: 2.4, d0: 20, d1: 16, el: 5, fov: 46, cx: 0.0, cz: -1.5, wx: {"fog": 0.7, "wind": 0.3}, hero: { hero: 'none', wide: true }, vary: false, nocut: true, trans: 'cut', actors: [], props: [{ asset: "ship", at: [X_harbor + -2, -27.0], s: 1.3 }, { asset: "ship", at: [X_harbor + 6, -27.0], s: 1.1 }] }), nocut: true },

diff --git a/ferramenta-shorts/stories/kiska1943/cronograma.md b/ferramenta-shorts/stories/kiska1943/cronograma.md
@@ -29,13 +29,13 @@ N | Etapa | O que confere | Estado | Proximo passo
 5 | Voz | narracao neural gerada e tempos por palavra | FEITO | 
 6 | Estilo e enquadramento | autoajuste de luz/cor e ajuste de camera de cada tomada | FEITO | 
 7 | Gates | camera OK, todas as tomadas OK, estilo OK | FEITO | 
-8 | Storyboard e grade de acoes | video inteiro em quadros + 1 quadro no instante de cada acao | PENDENTE | 
-9 | Revisao escrita e aprovacao | uma linha por frase conferindo com a folha 3 e com o quadro da pesquisa | BLOQUEADO (etapa anterior pendente) | ./aprovar_storyboard.sh kiska1943
+8 | Storyboard e grade de acoes | video inteiro em quadros + 1 quadro no instante de cada acao | FEITO | 
+9 | Revisao escrita e aprovacao | uma linha por frase conferindo com a folha 3 e com o quadro da pesquisa | PENDENTE | ./aprovar_storyboard.sh kiska1943
 10 | Render | todos os quadros renderizados nesta versao das folhas | BLOQUEADO (etapa anterior pendente) | 
 11 | Montagem e som | trechos + voz + musica + efeitos; volume normalizado | BLOQUEADO (etapa anterior pendente) | 
 12 | Conferencia | conferir.sh sem falha e folha de contato olhada | BLOQUEADO (etapa anterior pendente) | ./conferir.sh kiska1943
 13 | Auditoria das acoes | 1 quadro do mp4 em cada palavra de acao | REFAZER (a etapa anterior mudou) | bash auditar_acoes.sh local kiska1943 <mp4>
 14 | Entrega | mp4 original 1080x1920 enviado; commit e push | BLOQUEADO (etapa anterior pendente) | 
 
-**Etapa atual:** 8. Storyboard e grade de acoes
+**Etapa atual:** 9. Revisao escrita e aprovacao
 
